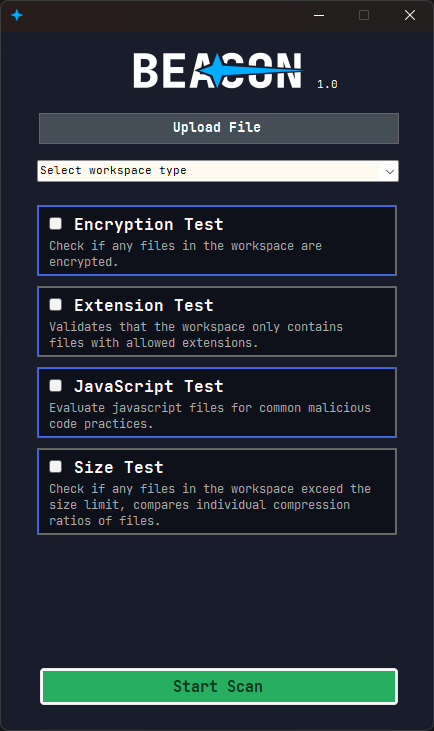
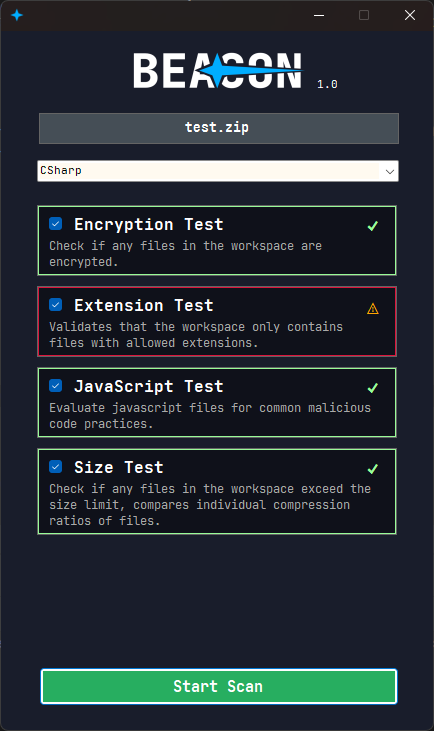
fix: encryption workspace test

diff --git a/MainForm.cs b/MainForm.cs
@@ -224,19 +224,24 @@ public sealed partial class MainForm : Form {
       testContainer.Tag = containerTag;
 
       if (statusIndicator != null) {
-        switch (containerTag.state) {
-          case ContainerState.Failure:
-            statusIndicator.ForeColor = Color.Crimson;
-            statusIndicator.Text = @"!";
-            break;
-          case ContainerState.Success:
-            statusIndicator.ForeColor = Color.PaleGreen;
-            statusIndicator.Text = @"✓";
-            break;
-          case ContainerState.Default:
-          case ContainerState.Loading:
-          default:
-            throw new ArgumentOutOfRangeException();
+        if (result.warnings.Any()) {
+          statusIndicator.ForeColor = Color.Orange;
+          statusIndicator.Text = @"⚠";
+        } else {
+          switch (containerTag.state) {
+            case ContainerState.Failure:
+              statusIndicator.ForeColor = Color.Red;
+              statusIndicator.Text = @"!";
+              break;
+            case ContainerState.Success:
+              statusIndicator.ForeColor = Color.PaleGreen;
+              statusIndicator.Text = @"✓";
+              break;
+            case ContainerState.Default:
+            case ContainerState.Loading:
+            default:
+              throw new ArgumentOutOfRangeException();
+          }
         }
 
         statusIndicator.Tag = result.warnings.Any() ? string.Join("\n", result.warnings) : null;

diff --git a/WorkspaceTests/EncryptionWorkspaceTest.cs b/WorkspaceTests/EncryptionWorkspaceTest.cs
@@ -1,3 +1,5 @@
+using System.IO;
+using System.Linq;
 using Waypoint;
 
 namespace Beacon.WorkspaceTests;
@@ -6,7 +8,13 @@ namespace Beacon.WorkspaceTests;
 [TestDescription("Check if any files in the workspace are encrypted.")]
 internal class EncryptionWorkspaceTest : WorkspaceTest {
   protected override bool validate(TestContext context) {
-    if (context.zipArchive.isEncrypted) return false;
-    return true;
+    var encryptedFiles = context.zipArchive.entries.Where(entry => {
+      var fileAttributes = File.GetAttributes(entry.FullName);
+      var encrypted = (fileAttributes & FileAttributes.Encrypted) == FileAttributes.Encrypted;
+      if (encrypted) this.addWarning($"File {entry.FullName} is encrypted.");
+      return encrypted;
+    }).ToList();
+
+    return encryptedFiles.Any() == false;
   }
 }

diff --git a/Waypoint/ZipReader.cs b/Waypoint/ZipReader.cs
@@ -13,8 +13,6 @@ public class ZipReader {
 
   public ZipReader(string path) {
     this.zipArchive = ZipFile.OpenRead(path);
-    // todo: somehow no longer a property after converting
-    // isEncrypted = zipArchive.Entries.Any((entry) => entry.isEncrypted);
     this.isEncrypted = false;
     this.entries = [.. this.zipArchive.Entries];
   }

diff --git a/README.md b/README.md
@@ -7,10 +7,11 @@
 
 <img src="Resources/preview.png" align="right" width="350"  />
 
-Beacon defines tests for common attack vectors such as: 
+Beacon defines tests for common attack vectors such as:
 - unexpected file types in defined workspace types (arbitrary binary files in a javascript workspace)
 - large uncompressed file sizes (tested against guesstimated compression ratios)
 - straight-forward javascript code analysis, which checks for common obfuscation techniques, malformed code and potentially unsafe functions.
+- simple checks for file encryption.
 
 These tests can be expanded upon by "plugins" (through the waypoint library), which Beacon loads and registers at runtime, plugin-based tests have equivalent capabilities to the built-in tests, wherein they can pass a result boolean and a string array of warnings to display.
 
